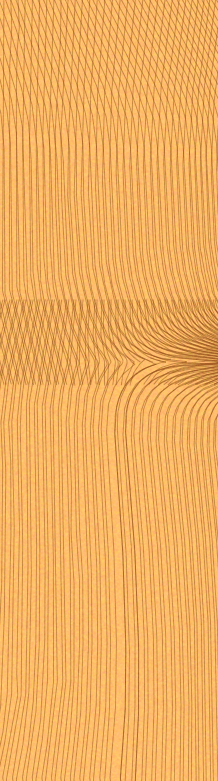
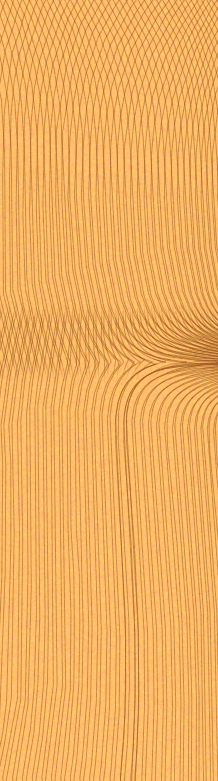
cp-eras-ui: veneer, the EMAIL card's band fades and its swirl curves; the panel's fold dies out to the right
From the 2026-11-16 re-review. The EMAIL card's seam band stopped on a
row at top and bottom and read as a pasted stripe: combs now fade over
their last 10 px, and that surface traces in 10 degree direction bins,
so the swirl is arcs and not chords. The panel's lines under the crease
packed flat and stopped on the strip cut: the sweep's amount now rises
toward the cut and the crease turns up into it, and the right strip is
near-vertical as in the reference. The panel's line is 1.3 texels with
a lighter single line, the reference's profile. The other four textures
are byte-identical. Goldens follow.

diff --git a/home/common/pkgs/cp-eras-ui/scripts/make-veneer.py b/home/common/pkgs/cp-eras-ui/scripts/make-veneer.py
@@ -100,12 +100,17 @@ STREAK_BEND = dict(kind='bend', ts=121.46, w=16.0, p=2.0,
 # The EMAIL card (2026-11-15 second refinement). LEAN_L is the lower leaf's
 # lean in its mirrored coordinates; the two are not symmetric, so the
 # crossing band sits a little above the axis, as the reference's does.
-EMAIL_LEAN_U = dict(kind='lean', ts=(122.0, 110.0), w=4.0, amount=(-0.3, -0.15))
-EMAIL_LEAN_L = dict(kind='lean', ts=(140.0, 118.0), w=4.0, amount=(-0.3, -0.15))
+EMAIL_LEAN_U = dict(kind='lean', ts=(122.0, 110.0), w=6.0, amount=(-0.3, -0.15))
+EMAIL_LEAN_L = dict(kind='lean', ts=(140.0, 118.0), w=6.0, amount=(-0.3, -0.15))
 EMAIL_CUSP = dict(kind='bend', ts=150.8, w=18.0, c=0.6, amount=(0.0, -50.0), power=3.0)
 EMAIL_EDGE = dict(kind='knot', at=(97.0, 160.0), r=(14.0, 1e6), amount=5.0, real=True)
 EMAIL_TOP = dict(kind='bend', ts=70.0, w=110.0, p=2.0, amount=(0.0, 30.0), real=True)
-EMAIL_SWIRL = dict(kind='shear', ts=44.0, w=9.0, amount=(0.5, 1.3), comb='main')
+EMAIL_SWIRL = dict(kind='shear', ts=55.0, w=15.0, amount=(0.0, 0.2), accel=(0.012, 0.02), comb='main')
+EMAIL_SWIRL_TWIN = dict(kind='shear', ts=55.0, w=15.0, amount=(0.0, -0.1), accel=(-0.008, -0.012), comb='twin')
+# Both EMAIL leaves: 10-degree direction bins (the 30-degree knees drew the
+# swirl's arcs and the band's crossing lines as chords), and the crossing
+# comb fades over 10 px at its window end instead of stopping on a row.
+EMAIL_QUANT = dict(step=10.0, hyst=1.5)
 MAIL_STEP = [(0.0, 50.0), (17.0, 70.0), (32.0, 60.0), (55.0, 35.0)]
 MAIL_SEAM = dict(kind='bend', ts=238.1, w=6.0, p=2.0, amount=(-1.0, -12.0))
 MAIL_CREASE = dict(kind='bend', ts=238.1, w=2.0, p=2.0, amount=(0.0, -4.0), power=1.5)
@@ -133,15 +138,13 @@ BASKET_CREASE = dict(kind='bend', ts=85.0, w=1.5, p=2.0, amount=(2.5, 3.0))
 # the strip edge at (450, 615).
 PANEL_UNDER = [(0.0, 265.0), (35.4, 278.3), (66.7, 290.8), (87.5, 300.8), (108.3, 300.8),
                (139.6, 298.3), (170.8, 294.2), (187.5, 295.0)]
-PANEL_SWEEP = dict(kind='ramp', k=2.0,
-                   a=[(14.6, 220.8), (56.2, 225.0), (97.9, 230.4), (139.6, 243.8), (170.8, 252.1), (187.5, 255.0)],
-                   b=[(4.2, 250.0), (35.4, 262.5), (66.7, 275.0), (87.5, 286.7), (108.3, 288.3), (139.6, 289.6),
-                      (170.8, 291.7), (187.5, 293.8)],
-                   amount=[(4.2, 35.0), (35.4, 55.0), (66.7, 90.0), (108.3, 130.0), (139.6, 110.0), (187.5, 85.0)])
+PANEL_SWEEP = dict(kind='ramp', k=[(0.0, 2.0), (110.0, 2.0), (150.0, 4.0), (187.5, 5.0)], a=[(14.6, 220.8), (56.2, 225.0), (97.9, 230.4), (139.6, 248.0), (170.8, 256.0), (187.5, 255.0)], b=[(4.2, 250.0), (35.4, 262.5), (66.7, 275.0), (87.5, 286.7), (108.3, 288.3), (139.6, 289.6), (170.8, 291.7), (187.5, 293.8)], amount=[(4.2, 35.0), (35.4, 55.0), (66.7, 90.0), (108.3, 130.0), (139.6, 115.0), (181.0, 122.0), (187.5, 107.0)])
 PANEL_CREASE = dict(kind='ramp', k=1.0,
                     a=[(83.3, 276.7), (113.8, 267.5), (139.6, 264.2), (170.8, 259.2), (187.5, 256.2)],
                     b=[(83.3, 279.2), (113.8, 270.0), (139.6, 266.7), (170.8, 261.7), (187.5, 258.8)],
                     amount=[(75.0, 0.0), (104.2, 18.0), (187.5, 18.0)])
+PANEL_EDGE = dict(kind='ramp', k=3.0, a=[(0.0, 232.0)], b=[(0.0, 252.0)], amount=[(181.0, 0.0), (187.5, 15.0)])
+PANEL_RIGHT = dict(kind='ramp', k=3.0, a=[(187.5, 260.4), (230.4, 266.7)], b=[(187.5, 291.7), (230.4, 316.7)], amount=[(187.5, 22.0), (230.4, 0.0)])
 PANEL_UNDER_L = dict(kind='ramp', k=3.0, a=PANEL_UNDER, b=[(s, t + 60.0) for s, t in PANEL_UNDER],
                      amount=[(0.0, 170.0), (77.9, 170.0)])
 PANEL_UNDER_R = dict(kind='ramp', k=3.0, a=PANEL_UNDER, b=[(s, t + 62.5) for s, t in PANEL_UNDER],
@@ -207,8 +210,9 @@ SURFACES = {
         wave=dict(amp=1.6, along=160.0, across=40.0),
         kinks=dict(n=10, amp=1.2, rs=(3.0, 8.0), rt=(4.0, 12.0)),
         families=[
-            dict(window=(None, 160.0), terms=[EMAIL_LEAN_U, EMAIL_CUSP, EMAIL_EDGE, EMAIL_TOP, EMAIL_SWIRL]),
-            dict(mirror=150.8, window=(125.0, None), terms=[
+            dict(window=(None, 160.0), fade=(0.0, 10.0), quant=EMAIL_QUANT,
+                 terms=[EMAIL_LEAN_U, EMAIL_CUSP, EMAIL_EDGE, EMAIL_TOP, EMAIL_SWIRL, EMAIL_SWIRL_TWIN]),
+            dict(mirror=150.8, window=(125.0, None), fade=(10.0, 0.0), quant=EMAIL_QUANT, terms=[
                 EMAIL_LEAN_L, EMAIL_CUSP, EMAIL_EDGE, EMAIL_TOP,
                 dict(kind='bend', ts=325.2, w=34.0, amount=(8.0, 0.0), real=True),
             ]),
@@ -231,15 +235,14 @@ SURFACES = {
     'dashboard-panel': dict(
         size=(230.4, 309.0), axis='v', seed=1202, pitch=10.2 / R,
         twin=dict(offset=0.42, shift=-1.5),
-        look=dict(ground=(262, 194, 110), single=(217, 154, 76), grain=(4.1, 4.6, 4.9)),
+        look=dict(ground=(262, 194, 110), single=(220, 158, 79), grain=(4.1, 4.6, 4.9), width=1.3),
         wave=dict(amp=1.8, along=200.0, across=50.0),
         kinks=dict(n=10, amp=1.0, rs=(3.0, 9.0), rt=(5.0, 14.0)),
         families=[
-            dict(window=(153.4, None), swindow=(None, 77.7), trim=True, terms=[PANEL_SWEEP, PANEL_CREASE, PANEL_UNDER_L]),
-            dict(window=(153.4, None), swindow=(78.1, 187.6), trim=True, terms=[PANEL_SWEEP, PANEL_CREASE, PANEL_UNDER_R]),
+            dict(window=(153.4, None), swindow=(None, 77.7), trim=True, terms=[PANEL_EDGE, PANEL_SWEEP, PANEL_CREASE, PANEL_UNDER_L]),
+            dict(window=(153.4, None), swindow=(78.1, 187.6), trim=True, terms=[PANEL_EDGE, PANEL_SWEEP, PANEL_CREASE, PANEL_UNDER_R]),
             dict(window=(153.4, None), swindow=(187.4, None), terms=[
-                dict(kind='ramp', k=3.0, a=[(187.5, 260.4), (230.4, 266.7)], b=[(187.5, 291.7), (230.4, 316.7)],
-                     amount=[(187.5, 40.0), (230.4, 30.0)]),
+                PANEL_RIGHT,
                 dict(kind='ramp', k=3.0, a=[(187.5, 291.7), (230.4, 316.7)], b=[(0.0, 341.7)],
                      amount=[(187.5, 20.0), (230.4, 20.0)]),
             ]),
@@ -455,6 +458,8 @@ def family_phi(surf, fam, s, t):
             # sweep, its crease and the run below it.
             a = pw(s, term['a']); b = pw(s, term['b'])
             k = term.get('k', 2.0)
+            if isinstance(k, list):
+                k = pw(s, k)  # knee width varying across the grain
             u = (k * np.logaddexp(0.0, (tt - a) / k) - k * np.logaddexp(0.0, (tt - b) / k)) / np.maximum(b - a, 1e-6)
             phi = phi + pw(s, term['amount']) * u
         elif kind == 'shear':
@@ -463,7 +468,12 @@ def family_phi(surf, fam, s, t):
             # a soft knee `w` wide between: grain running off an edge.
             z = (term['ts'] - tt) / term['w']
             knee = term['w'] * np.logaddexp(0.0, z)
-            phi = phi + across(s, S, term['amount'], term.get('power', 1.0)) * knee
+            shear = across(s, S, term['amount'], term.get('power', 1.0)) * knee
+            if 'accel' in term:
+                # The lean steepens further from ts: the lines curve
+                # into arcs instead of running off the edge straight.
+                shear = shear + across(s, S, term['accel']) * knee * knee / 2.0
+            phi = phi + shear
         elif kind == 'lean':
             # One-sided, the other way: past ts (t > ts) the lines lean
             # at `amount` (ds/dt, negative leans them towards +s), after
@@ -754,9 +764,13 @@ def trim(Q, box):
 def lines(spec):
     """All of a surface's drawn lines, as polylines in texels (x, y)."""
     surf = Surface(spec)
-    q = dict(QUANT, **spec.get('quant', {}))
     out = []
     for fam in spec['families']:
+        q = dict(QUANT, **spec.get('quant', {}), **fam.get('quant', {}))
+        fade = fam.get('fade')
+        if fade:
+            box = domain(surf, fam)
+            fade = (box[2], box[3], fade[0], fade[1], spec['axis'])
         for twin in ((False, True) if surf.twin else (False,)):
             for Q, _ in trace_family(surf, fam, twin):
                 if len(Q) < 3:
@@ -767,14 +781,29 @@ def lines(spec):
                 V = V * R
                 if spec['axis'] == 'h':
                     V = V[:, ::-1]
-                out.append((fillet(V, q['radius']), fam.get('ink', 1.0)))
+                out.append((fillet(V, q['radius']), fam.get('ink', 1.0), fade))
     return out
 
 
 # ---------------------------------------------------------------------------
 # Rendering, as measured (veneer-construction.md, "Line, ground and grain").
 
-def stroke(taus, P, alpha, width=1.0, pad=2):
+def faded(fade, X, Y):
+    """A family's opacity near its window ends: `fade` = (t0, t1, a, b,
+    axis); the lines fade in over `a` design px after t0 and out over
+    `b` before t1 (smoothstep), so a crossing comb fades into the other
+    leaf instead of stopping on a cut row."""
+    t0, t1, a, b, axis = fade
+    t = (Y if axis == 'v' else X) / R
+    f = np.ones_like(t)
+    if a:
+        u = np.clip((t - t0) / a, 0.0, 1.0); f = f * u * u * (3 - 2 * u)
+    if b:
+        u = np.clip((t1 - t) / b, 0.0, 1.0); f = f * u * u * (3 - 2 * u)
+    return f
+
+
+def stroke(taus, P, alpha, width=1.0, pad=2, fade=None):
     """Add one stroke's optical depth -ln(1 - alpha_c * coverage) per
     channel; coverage is a `width`-wide box's overlap with the texel."""
     H, W = taus.shape[1:]
@@ -795,6 +824,9 @@ def stroke(taus, P, alpha, width=1.0, pad=2):
         sub = D[by0 - y0:by1 - y0, bx0 - x0:bx1 - x0]
         np.minimum(sub, np.hypot(X - a[0] - t * d[0], Y - a[1] - t * d[1]), out=sub)
     cov = np.clip(np.minimum(D + width / 2, 0.5) - np.maximum(D - width / 2, -0.5), 0, None)
+    if fade is not None:
+        X, Y = np.meshgrid(np.arange(x0, x1) + 0.5, np.arange(y0, y1) + 0.5)
+        cov = cov * faded(fade, X, Y)
     for c in range(3):
         taus[c, y0:y1, x0:x1] -= np.log1p(-np.minimum(alpha[c] * cov, 0.999))
 
@@ -822,8 +854,8 @@ def render_rgb(spec, grain_on=True):
     core = np.minimum(np.array(CORE) * ground / store, single - 1)
     alpha = (ground - single) / (ground - core)
     taus = np.zeros((3, th, tw))
-    for P, ink in lines(spec):
-        stroke(taus, P, alpha * ink)
+    for P, ink, fade in lines(spec):
+        stroke(taus, P, alpha * ink, width=look.get('width', 1.0), fade=fade)
     rgb = core[:, None, None] + (ground - core)[:, None, None] * np.exp(-taus)
     if grain_on:
         rgb = rgb + grain((th, tw), look['grain'], spec['seed'] + 7)

diff --git a/home/common/pkgs/cp-eras-ui/docs/neokitsch/veneer-texture.md b/home/common/pkgs/cp-eras-ui/docs/neokitsch/veneer-texture.md
@@ -306,6 +306,84 @@ sweep is equally strong across the card where the reference's is
 strongest right of x ~330; the store core is still not pointed and its
 knees do not rise towards the right edge.
 
+### Fourth refinement (2026-11-16)
+
+Two surfaces refit after the 2026-11-16 fidelity review
+(`dashboard-panel.png`, `dashboard-email.png`); the other four PNGs are
+byte-identical (sha256 checked). Generator changes, none of which alters
+a surface that does not use them:
+
+- `ramp` takes `k` as a list (piecewise across the grain, knee width).
+- `shear` takes `accel` (as `lean` does): the lean grows with distance
+  past `ts`, so the lines curve into arcs instead of running straight.
+- A family may carry `quant` (overrides `QUANT` for that family only)
+  and `fade = (a, b)`: its lines' opacity rises over `a` design px after
+  the window's start and falls over `b` before its end (smoothstep), so
+  a crossing comb fades into the other leaf instead of stopping on a row.
+- `look['width']` sets the stroke width in texels (default 1.0).
+
+**Panel: the "hard rectangular edge".** It was the left strip's lines
+under the crease: near the strip edge (native x 300-445, y 636-696) they
+ran ~83 deg, packed, and stopped on the strip cut, while the right strip's
+ran 50-70. In the reference the fold dies out towards the right (angles
+82 at x 310 falling to ~45 at x 430 and ~6 at x 535), and the crease
+curves up into the edge. Two findings that steer the terms: a ramp's
+amount *falling* across the grain flattens the lines (the slope is
+`A u_t / (1 + A' u)`), so tapering the sweep towards the edge made it
+worse; and the lines steepen where the amount *rises*. Now:
+`PANEL_SWEEP` amount 130 at s 108.3, 115 at 139.6, 122 at 181, 107 at
+187.5, its knee row lowered at the right (t 248 / 256 at s 139.6 / 170.8)
+and softer there (`k` 2 to s 110, 4 at s 150, 5 at the edge: the
+reference's knee turns over ~50 native rows); `PANEL_EDGE`, a ramp from
+t 232 to 252 (k 3) whose amount rises from 0 at s 181 to 15 at the edge,
+turns the crease up into the strip edge (40 drew a dark vertical blot at
+1600x900); `PANEL_RIGHT` (the right strip's first ramp) 22 at s 187.5 to
+0 at the right edge (was 40 / 30), so the strip's lines are near-vertical
+at the right as the reference's are. Mean angle error against the
+reference, rows 515-742, x 10-300 / 300-445 / 445-553 (committed / now):
+14.1 / 14.0, 15.0 / 11.6, 14.8 / 10.1.
+
+**Panel: why it reads soft.** Measured, not the print pass and not the
+sampler. At 3840x2160 the screen's lines keep their contrast (mean line
+depth, G, in vertical grain at native 470-520: reference 31.5, texture
+29.6, render with `CP_ERAS_UI_PRINT=0` 26.8, with the print pass 26.7;
+the render is 0.84 texel + 0.09 / 0.06 of its right / lower neighbours:
+the panel's origin is a fraction of a texel off, a ~10% loss). At
+1600x900 the screen is exactly the 2.4-texel box of the texture
+(correlation 0.98 against a simulated box): `src/veneer.rs` does what it
+should. The review's crop set the reference at native 4K beside ours at
+1600x900, which is most of the difference. What remains is the texture:
+the reference's line is a little wider (mean profile at the line
+162 / 184-185.5 either side; ours 164 / 188-189), and a 1-texel line loses
+more under the box. The panel now strokes 1.3 texels with a lighter
+single line ((220, 158, 79), was (217, 154, 76)): profile 162 / 185-186.5;
+G std after a 2.4 box in vertical grain reference / committed / now
+10.3 / 8.2 / 9.0, in the fold 12.0 / 10.8 / 12.3; mean G vertical 184.8 /
+186.2 / 184.8, fold 175.1 / 175.5 / 171.5. The rest of the 1600x900 gap
+is the reference's more regular ~5-texel pitch (more power at periods
+4.5-12 texels, less at 2-3). Nothing outside the generator needs to
+change for this; the sub-texel origin at 4K is a layout rounding (the
+panel's design origin is not on the 1/2.4 px grid), not the sampler.
+
+**EMAIL card.** The band's top and bottom were window ends. Both leaves
+now `fade` over 10 px at those ends (upper `(0, 10)`, lower `(10, 0)`),
+the lean knees are softer (`EMAIL_LEAN_*` w 6, was 4) and both families
+trace with 10-degree bins (`EMAIL_QUANT`, step 10, hysteresis 1.5): the
+band's lines curve into the chevron and the swirl's 30-degree chords are
+gone. The swirl is two arcs now: `EMAIL_SWIRL` on the main comb (ts 55,
+w 15, amount 0 to 0.2, accel 0.012 to 0.02) leans up-left more and more
+towards the top, and `EMAIL_SWIRL_TWIN` (amount 0 to -0.1, accel -0.008
+to -0.012) the twin up-right, so they cross in the reference's lenses
+rather than a straight comb across a vertical one.
+
+Still wrong after it: the panel's crease is still straighter than the
+reference's between native x 200 and 420, and its turn up at the edge is
+a short corner rather than the reference's long curve; the EMAIL swirl
+is denser and its arcs shallower than the reference's, which reach nearly
+horizontal under the chamfer; the EMAIL band's lattice is a little
+weaker than the reference's. The mail row, SMG button and store streak
+(review items 3 and 4) were not revisited.
+
 ## Surfaces
 
 | Texture | Surface | Design box | Texels |
